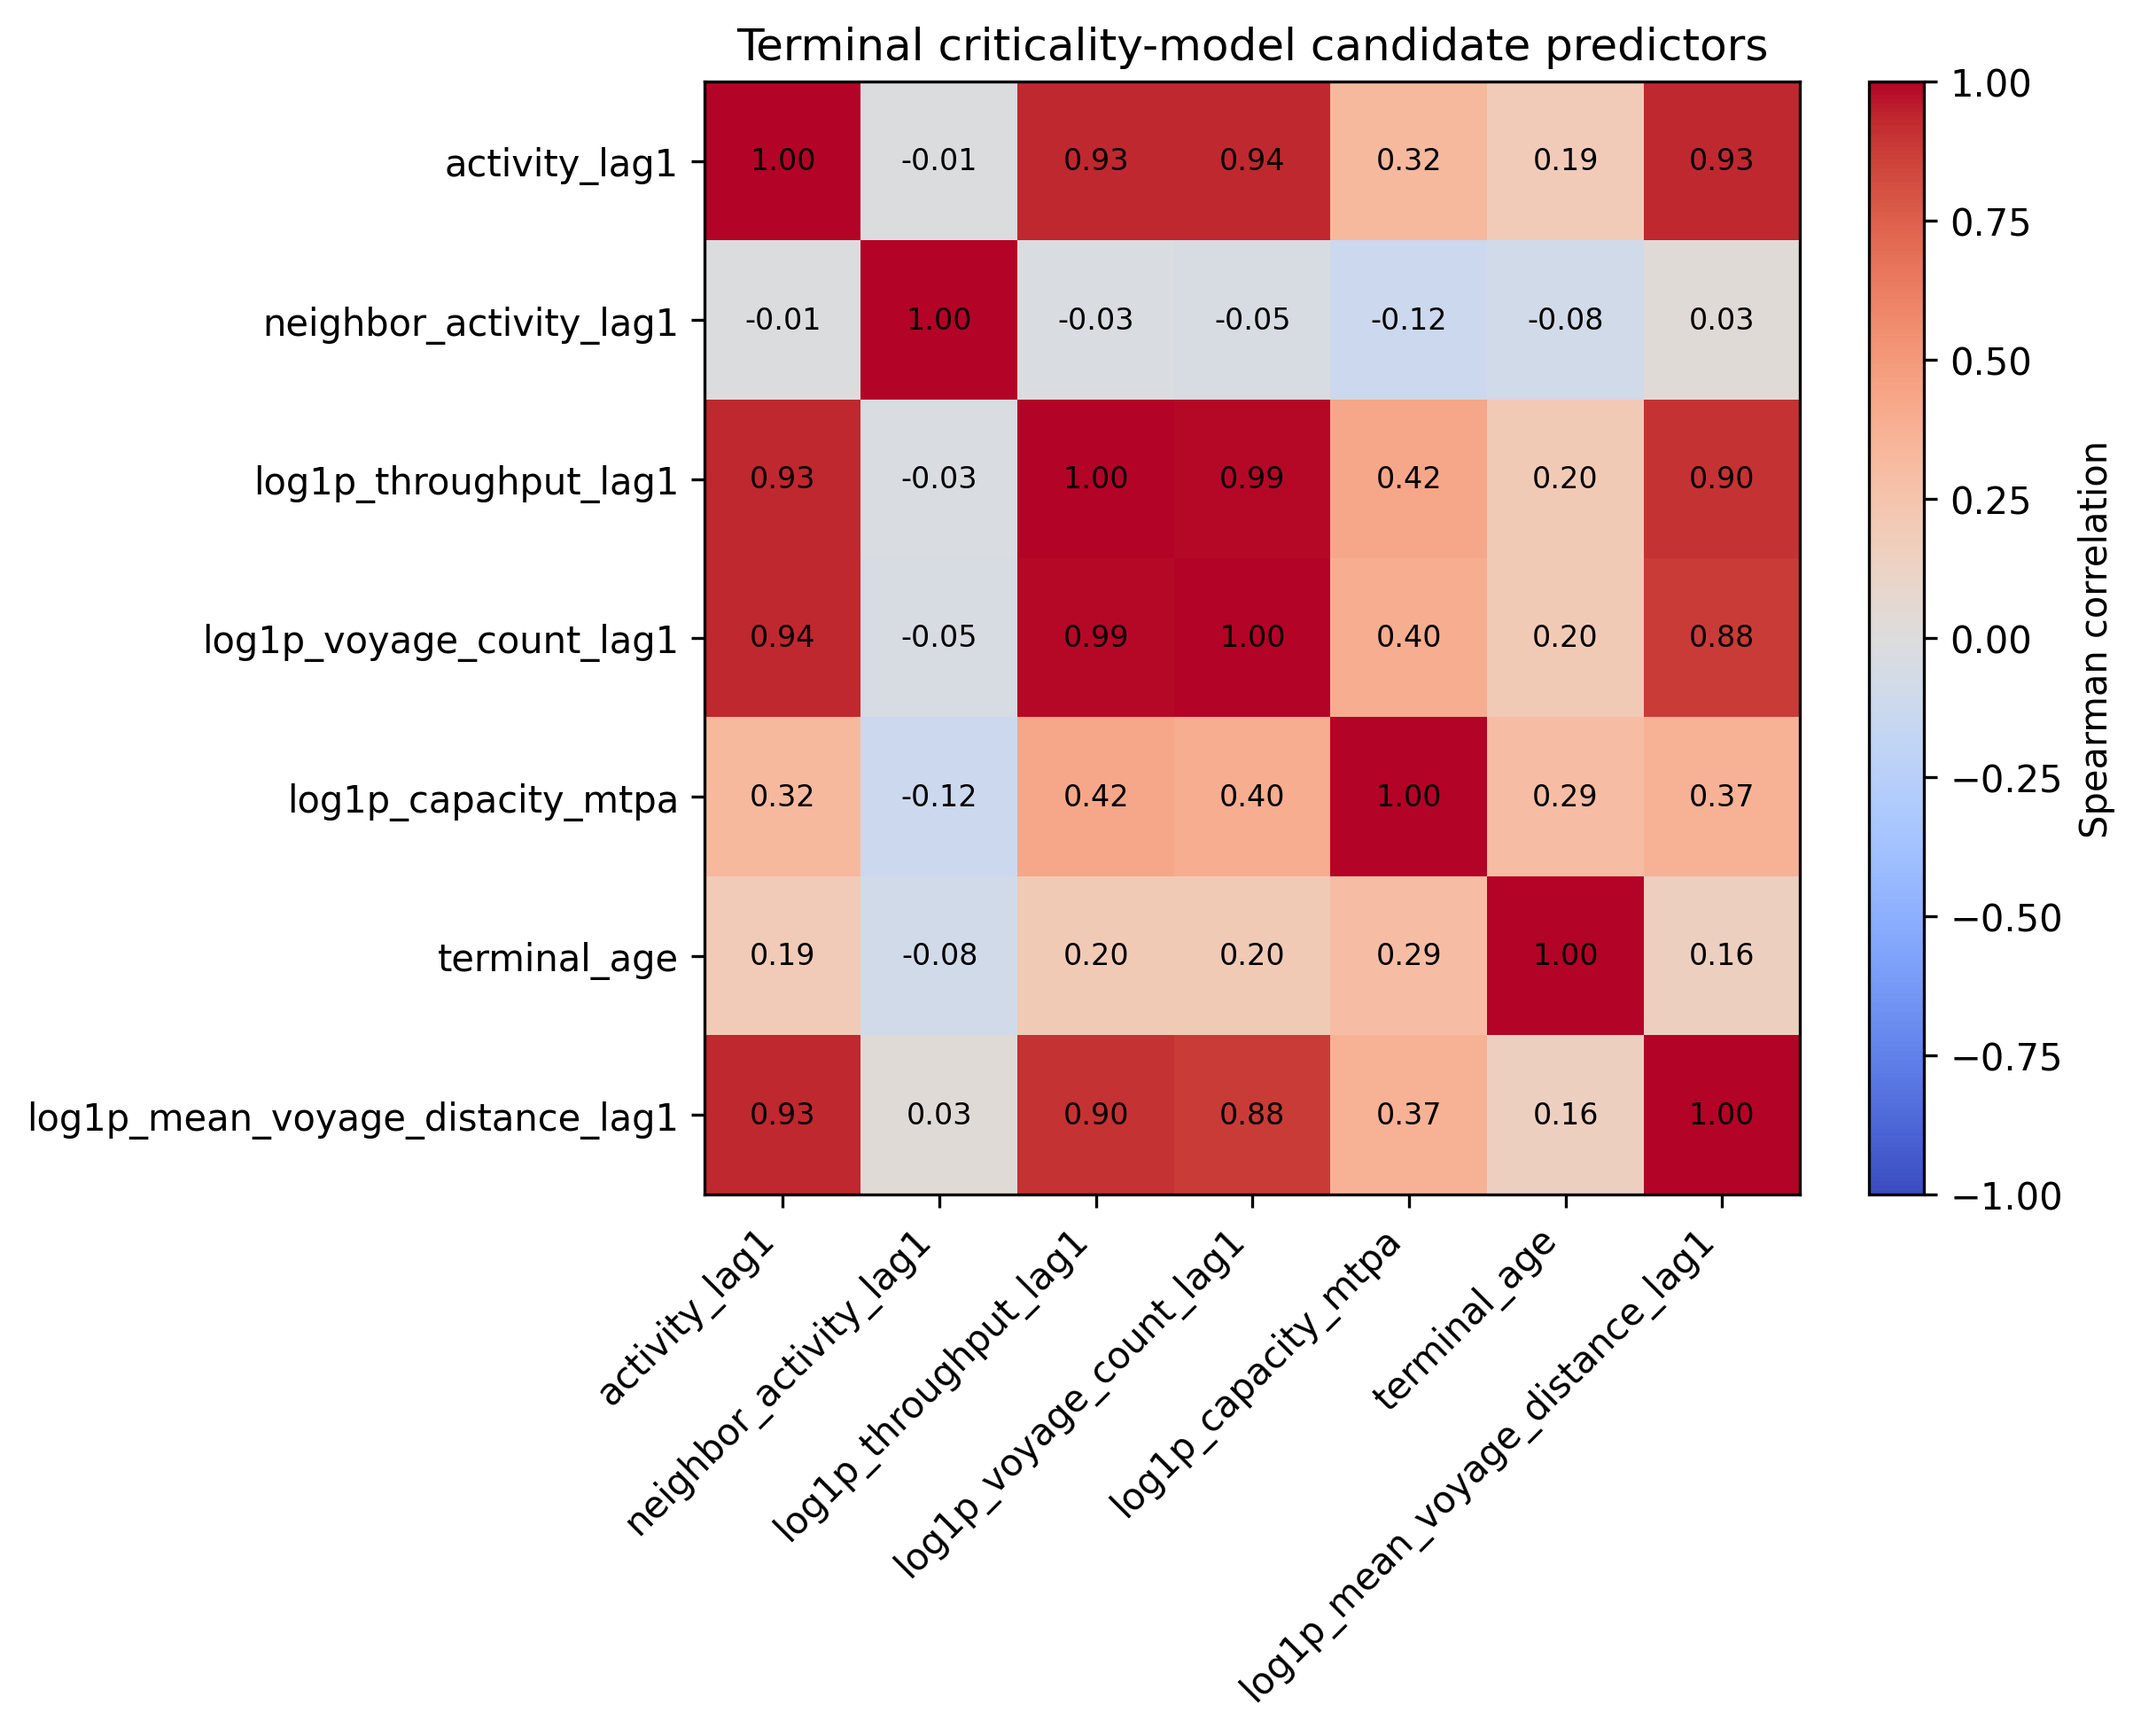
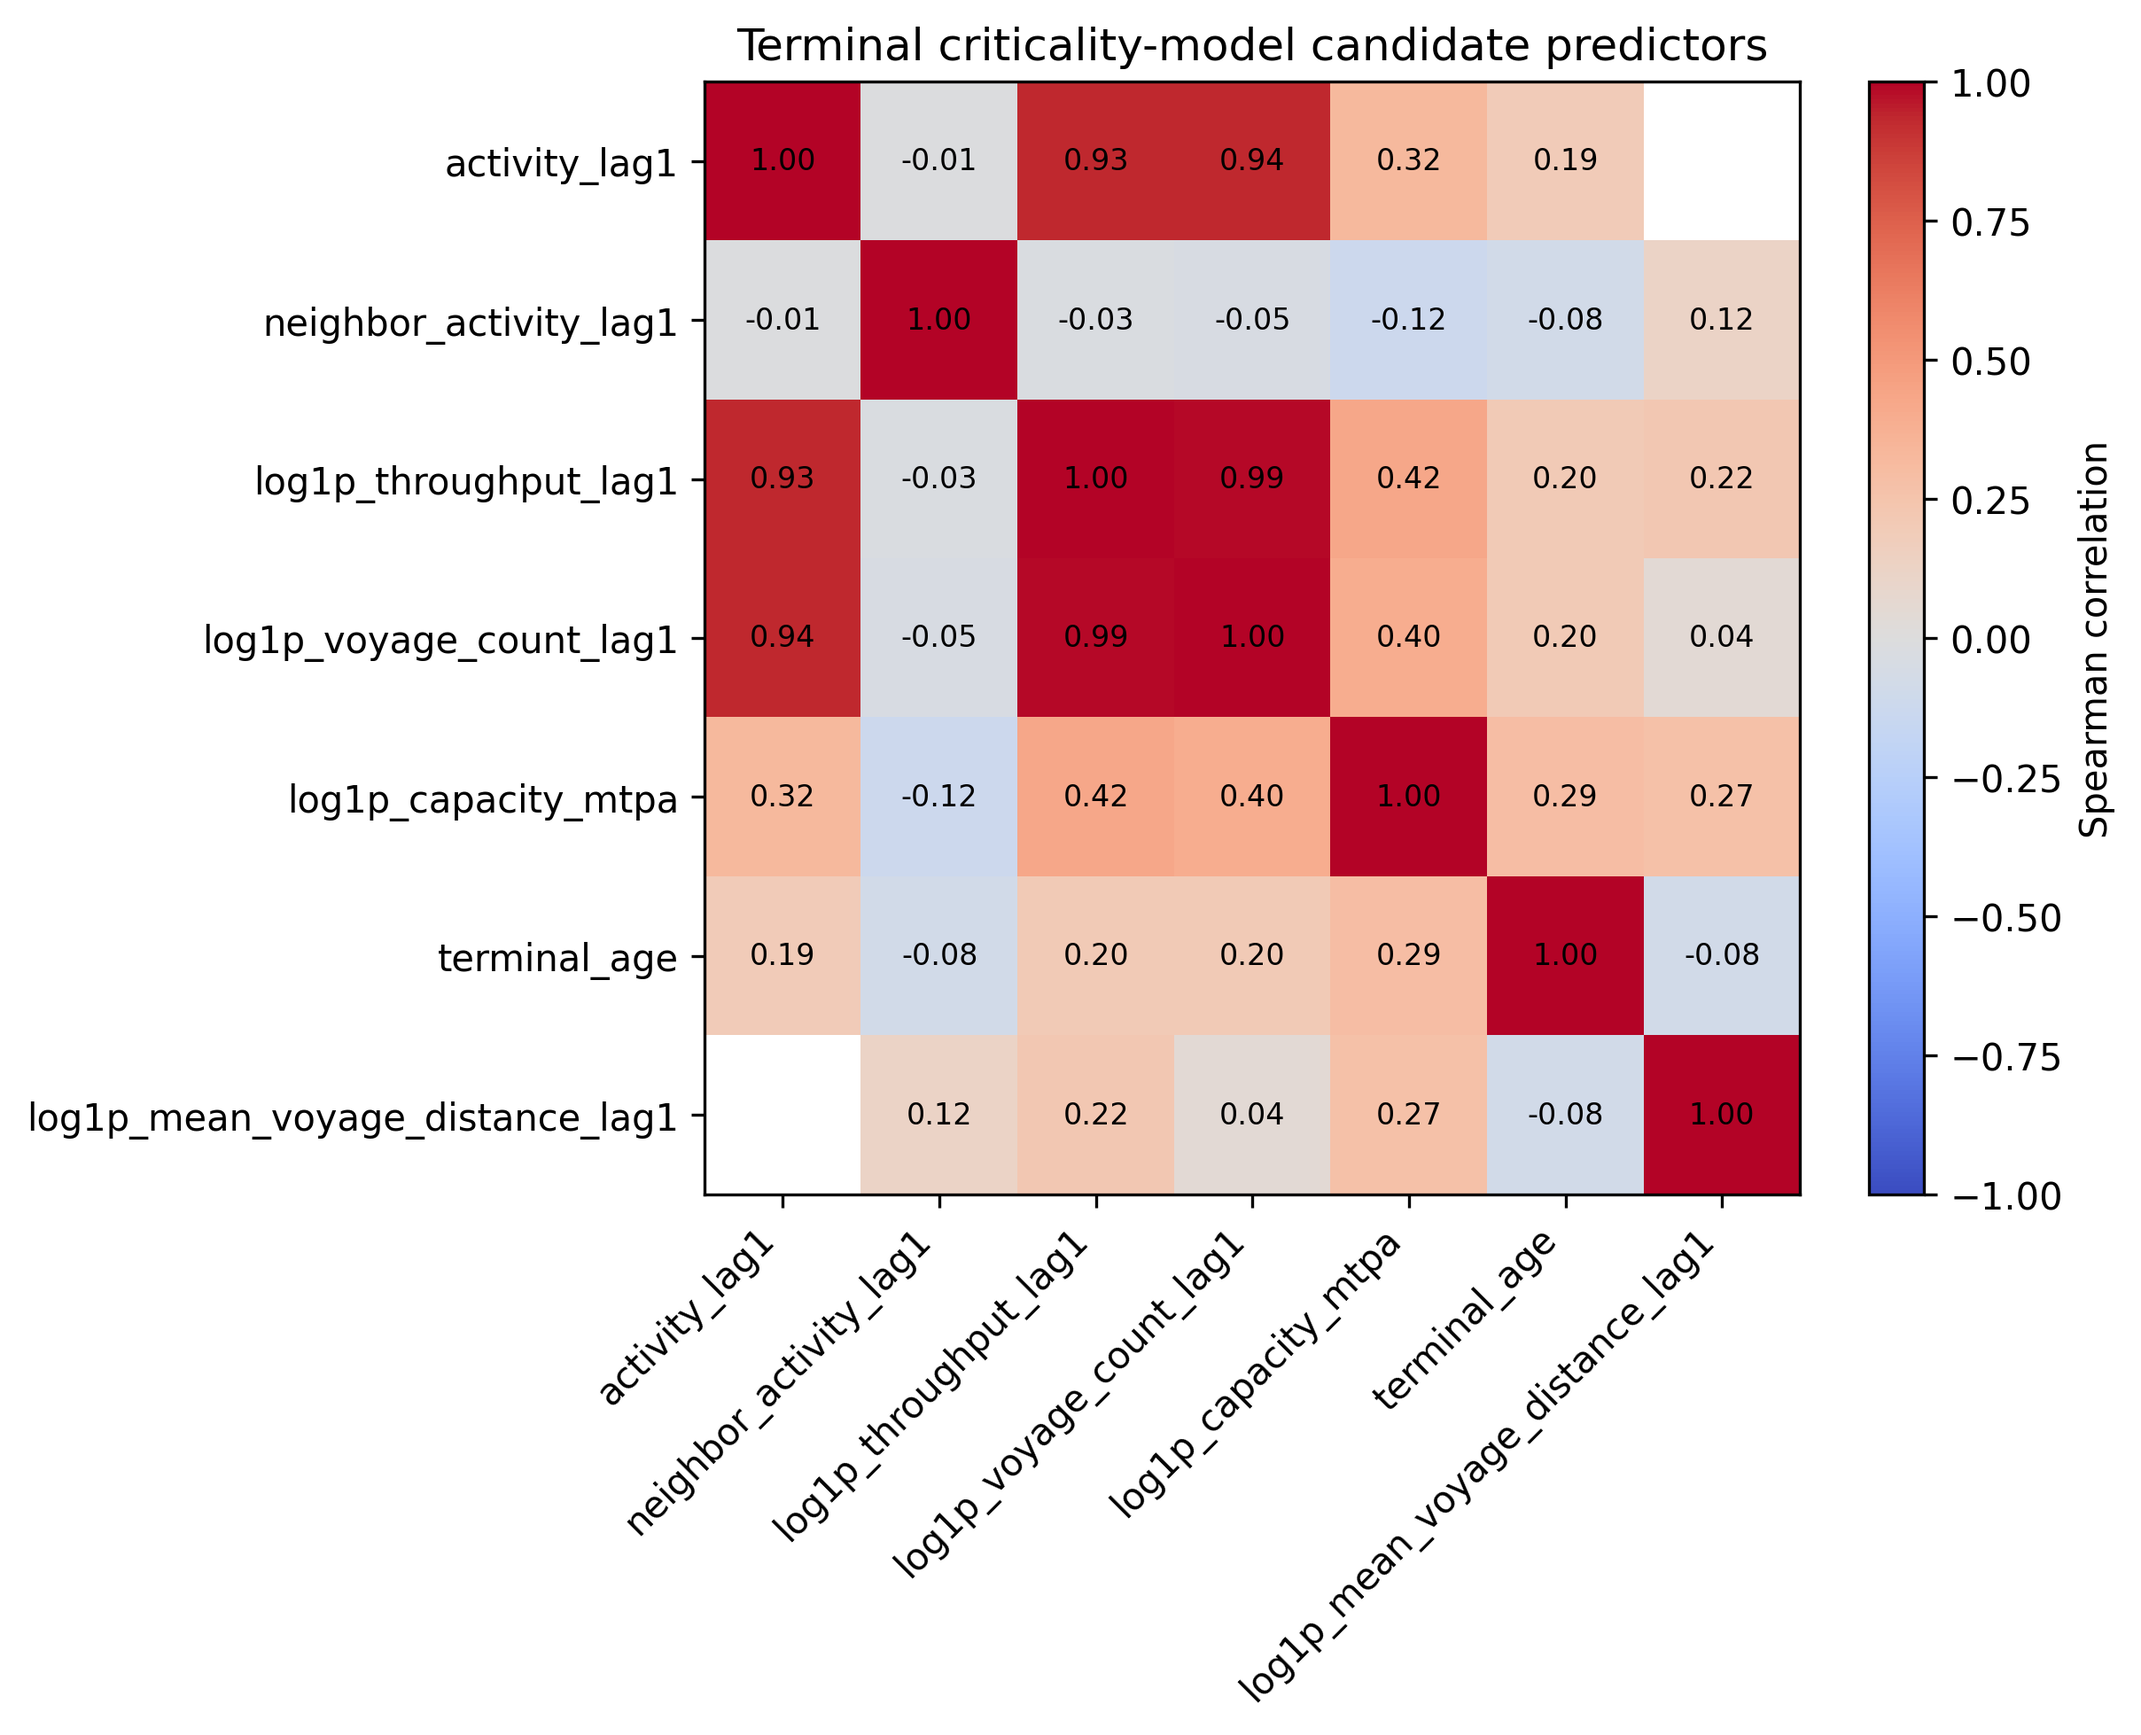
fix coding of missing voyage distances

diff --git a/scripts/analysis/build_model_ready_panels.py b/scripts/analysis/build_model_ready_panels.py
@@ -350,17 +350,13 @@ def build_terminal_panel(terminal_month, activity_panel, structure, nodes):
     terminal = terminal.sort_values(["node_id", "period_month"]).reset_index(drop=True)
     
     grouped = terminal.groupby("node_id", sort=False)
+    
     terminal["mean_voyage_distance_lag1"] = (
         grouped["mean_voyage_distance"].shift(1)
     )
     terminal["log1p_mean_voyage_distance_lag1"] = np.log1p(
         terminal["mean_voyage_distance_lag1"]
     )
-    inactive_lag = terminal["activity_lag1"].eq(0)
-    terminal.loc[
-        inactive_lag,
-        "log1p_mean_voyage_distance_lag1",
-    ] = 0
     terminal["throughput_lag1"] = terminal.groupby("node_id")["throughput"].shift(1)
     terminal["log1p_throughput_lag1"] = np.log1p(terminal["throughput_lag1"])
     capacity = pd.to_numeric(terminal["capacity_mtpa"], errors="coerce")
